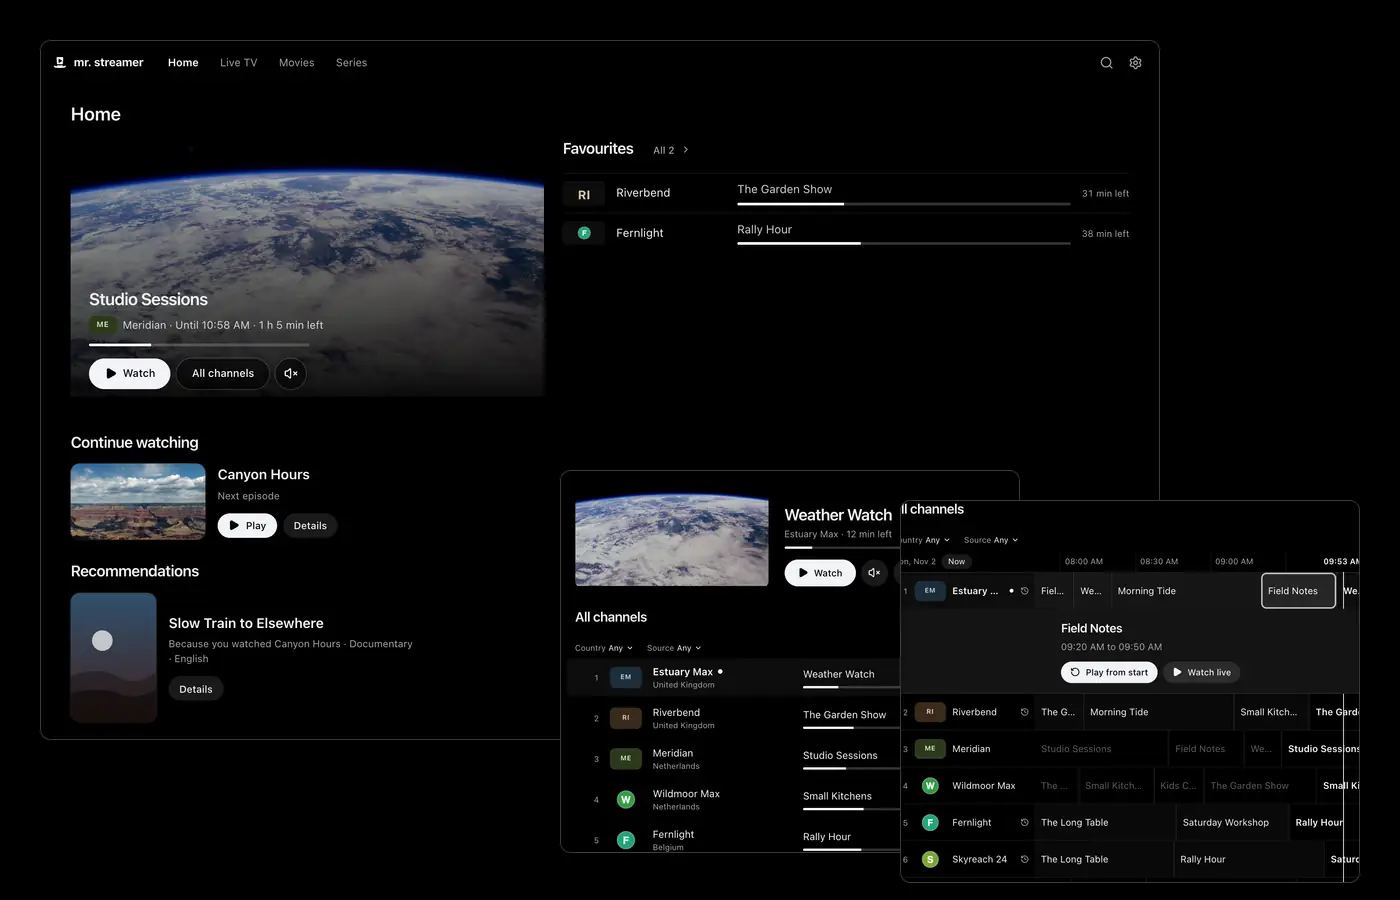
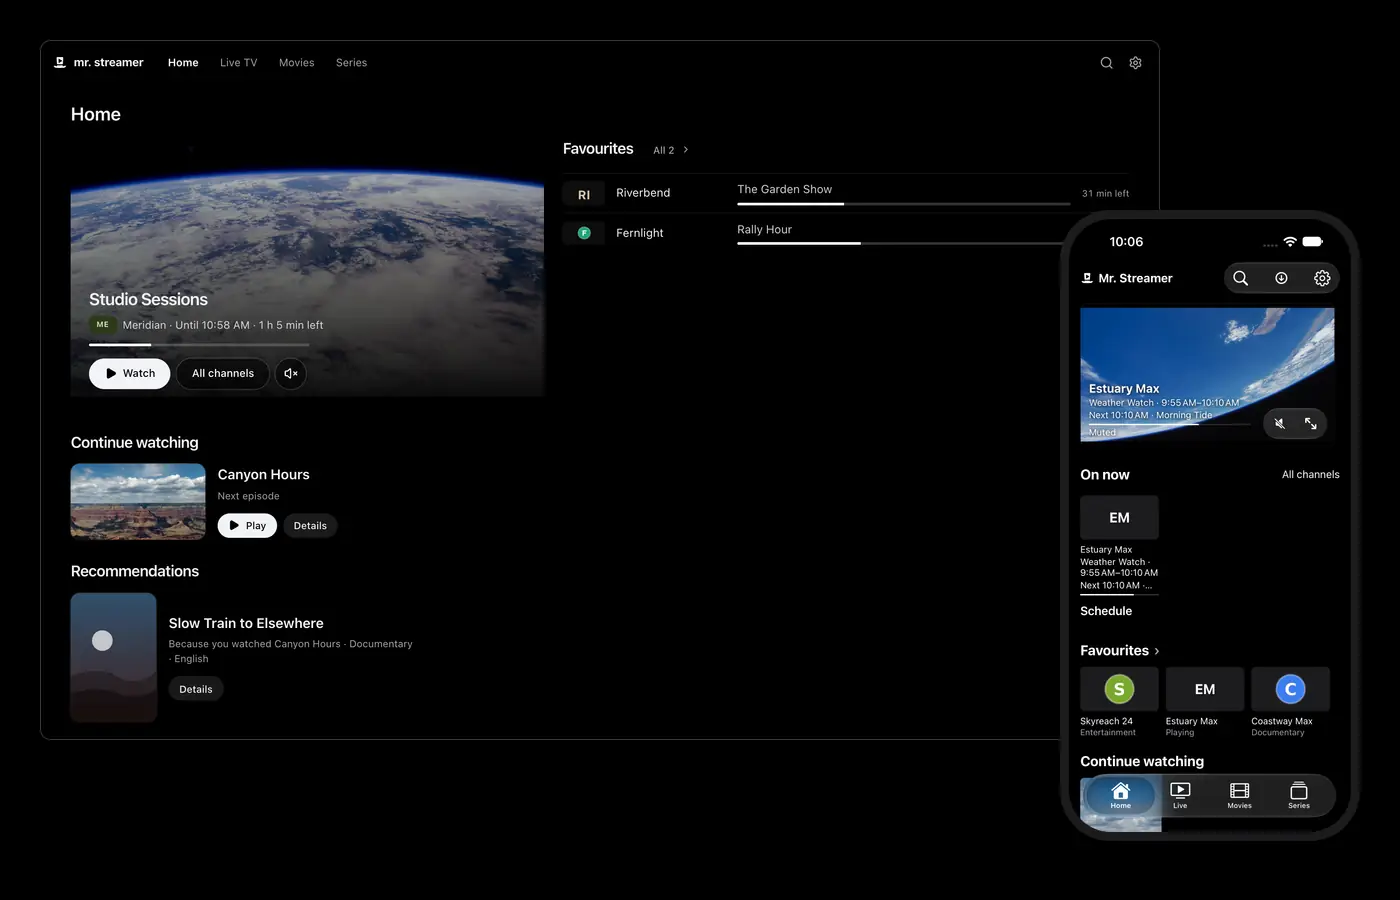
docs(readme): show the desktop and iPhone apps together, as the site does
The README poster showed the old Home window with Live TV and TV Guide
cuts. It is now the homepage's stage: the desktop Home window with the
real iPhone Home capture in front of it.

diff --git a/apps/marketing/scripts/prepare-assets.ts b/apps/marketing/scripts/prepare-assets.ts
@@ -12,9 +12,9 @@
 //   whole screen at the widths the page asks for.
 // - mark.svg, favicon.svg, favicon-48.png, apple-touch-icon.png: the mark, alone and on black.
 // - social.png: 1200 × 630, the Home window on black, for links shared elsewhere.
-// - With --readme, in docs/assets: readme-poster.webp, the Home window with the Live TV and TV
-//   Guide cuts in front of it on black, and readme-mark.svg, the mark in a grey that reads on
-//   light and dark pages. README.md shows these, so they are committed.
+// - With --readme, in docs/assets: readme-poster.webp, the homepage's stage (the Home window
+//   with the iPhone's Home screen in front of it) on black, and readme-mark.svg, the mark in a
+//   grey that reads on light and dark pages. README.md shows these, so they are committed.
 //
 // public/generated/ is rebuilt on every run and is not committed. index.html names these files
 // and the cuts' sizes: change both together.
@@ -241,21 +241,44 @@ if (process.argv.includes("--readme")) {
     source.replace(white, white.replace("#fff", "#808080")),
   );
 
-  // The Home window with the Live TV and TV Guide cuts in front of it, lower right, on black. The
-  // windows are black too, so the poster reads the same on GitHub's light and dark themes.
-  const POSTER = { width: 1400, height: 900, window: 1120, cut: 460, radius: 10 };
-  const frame = "#3a3a3a";
-  const liveTv = CUTS["live-tv"];
-  const tvGuide = CUTS["tv-guide"];
-  if (!liveTv || !tvGuide) throw new Error("The poster needs the Live TV and TV Guide cuts.");
+  // The homepage's stage: the Home window with the iPhone's Home screen in front of its right
+  // edge, on black. The windows and the iPhone are black too, so the poster reads the same on
+  // GitHub's light and dark themes.
+  const POSTER = { width: 1400, height: 900, window: 1120, radius: 10 };
+  const PHONE = { width: 300, bezel: 9, left: 1060, top: 210 };
+  const screenWidth = PHONE.width - 2 * PHONE.bezel;
+  const screen = await sharp(checkedCapture("iphone-home"))
+    .resize({ width: screenWidth })
+    .png()
+    .toBuffer();
+  const { height: screenHeight = 0 } = await sharp(screen).metadata();
+  const phoneHeight = screenHeight + 2 * PHONE.bezel;
+  const rounded = (width: number, height: number, radius: number, fill: string) =>
+    Buffer.from(
+      `<svg xmlns="http://www.w3.org/2000/svg" width="${width}" height="${height}">` +
+        `<rect width="${width}" height="${height}" rx="${radius}" fill="${fill}"/></svg>`,
+    );
+  // The screen with the iPhone's rounded corners, in a dark bezel the shape of the phone.
+  const phone = await sharp(rounded(PHONE.width, phoneHeight, 50, "#1c1c1e"))
+    .composite([
+      {
+        input: await sharp(screen)
+          .composite([{ input: rounded(screenWidth, screenHeight, 42, "#000"), blend: "dest-in" }])
+          .png()
+          .toBuffer(),
+        left: PHONE.bezel,
+        top: PHONE.bezel,
+      },
+    ])
+    .png()
+    .toBuffer();
   const layers = [
     {
-      ...(await framed(captureOf("home").clone(), POSTER.window, POSTER.radius, frame)),
+      ...(await framed(captureOf("home").clone(), POSTER.window, POSTER.radius, "#3a3a3a")),
       left: 40,
       top: 40,
     },
-    { ...(await framed(cutOf(liveTv), POSTER.cut, POSTER.radius, frame)), left: 560, top: 470 },
-    { ...(await framed(cutOf(tvGuide), POSTER.cut, POSTER.radius, frame)), left: 900, top: 500 },
+    { input: phone, left: PHONE.left, top: PHONE.top },
   ];
   await sharp({
     create: { width: POSTER.width, height: POSTER.height, channels: 3, background: "#000" },

diff --git a/docs/contributing/marketing-artwork.md b/docs/contributing/marketing-artwork.md
@@ -12,7 +12,7 @@ The website shows five captures of the real desktop app and five of the iOS app 
 
 Each is the whole window at 1280 × 800 points and twice the pixels, 2560 × 1600, saved as a lossless PNG. `apps/marketing/scripts/prepare-assets.ts` cuts every size the page uses from these five files, and the social picture too: the whole Home window for social links, the stage and the screen tabs, and the cut each of the five tricks shows beside its row. The page changes when you commit new captures and at no other time.
 
-The README shows the same captures as committed files in `docs/assets`: `readme-poster.webp`, the Home window with the Live TV and TV Guide cuts in front of it on black, and `readme-mark.svg`, the mark in a grey that reads on GitHub's light, dark and dimmed themes and GitCafe's light and dark themes. It is one file because GitHub picks a `<picture>` source by the system's colour scheme rather than the reader's GitHub theme, and GitCafe shows only the fallback image. `node apps/marketing/scripts/prepare-assets.ts --readme` writes them from the same masters and `apps/desktop/assets/brand/mark.svg`; commit the result with new captures. Nothing is painted into a capture: the poster only places whole cuts beside each other.
+The README shows the same captures as committed files in `docs/assets`: `readme-poster.webp`, the homepage's stage: the Home window with the iPhone Home capture in front of its right edge, on black, and `readme-mark.svg`, the mark in a grey that reads on GitHub's light, dark and dimmed themes and GitCafe's light and dark themes. It is one file because GitHub picks a `<picture>` source by the system's colour scheme rather than the reader's GitHub theme, and GitCafe shows only the fallback image. `node apps/marketing/scripts/prepare-assets.ts --readme` writes them from the same masters and `apps/desktop/assets/brand/mark.svg`; commit the result with new captures. Nothing is painted into a capture: the poster only places whole cuts beside each other.
 
 Nothing in them comes from a real provider, film or person. The channels, programmes, titles, cast and subtitles are invented, and [`docs/assets/marketing-demo-sources.json`](../assets/marketing-demo-sources.json) lists every one. The moving pictures are public domain. Keep it that way. No provider's catalogue, no real posters, no real faces, no agency emblems.
 

diff --git a/README.md b/README.md
@@ -6,7 +6,7 @@
 
 <p align="center"><strong><a href="https://mrstreamer.app/download">Download</a></strong> · <a href="https://apps.microsoft.com/detail/9N45GG76ZP4T?referrer=appbadge">Microsoft Store</a> · <a href="https://discord.gg/sR4tjEw6bQ">Discord</a></p>
 
-<img src="docs/assets/readme-poster.webp" alt="Home with a live preview, favourites and Continue watching, with Live TV and the TV Guide in front of it" width="100%">
+<img src="docs/assets/readme-poster.webp" alt="Mr. Streamer Home on a computer, with the iPhone app's Home screen in front of it" width="100%">
 
 - Live TV with favourites, [your own channel lists, programme reminders](docs/user/live-tv.md#your-lists) and a [guide grid](docs/user/live-tv.md#the-guide). Aired programmes play from their start when your provider keeps catch-up.
 - Movies and series with resume, a [watchlist](docs/user/movies-and-series.md#watchlist) and [offline downloads](docs/user/downloads.md) you can pause and reorder, whole series included.
